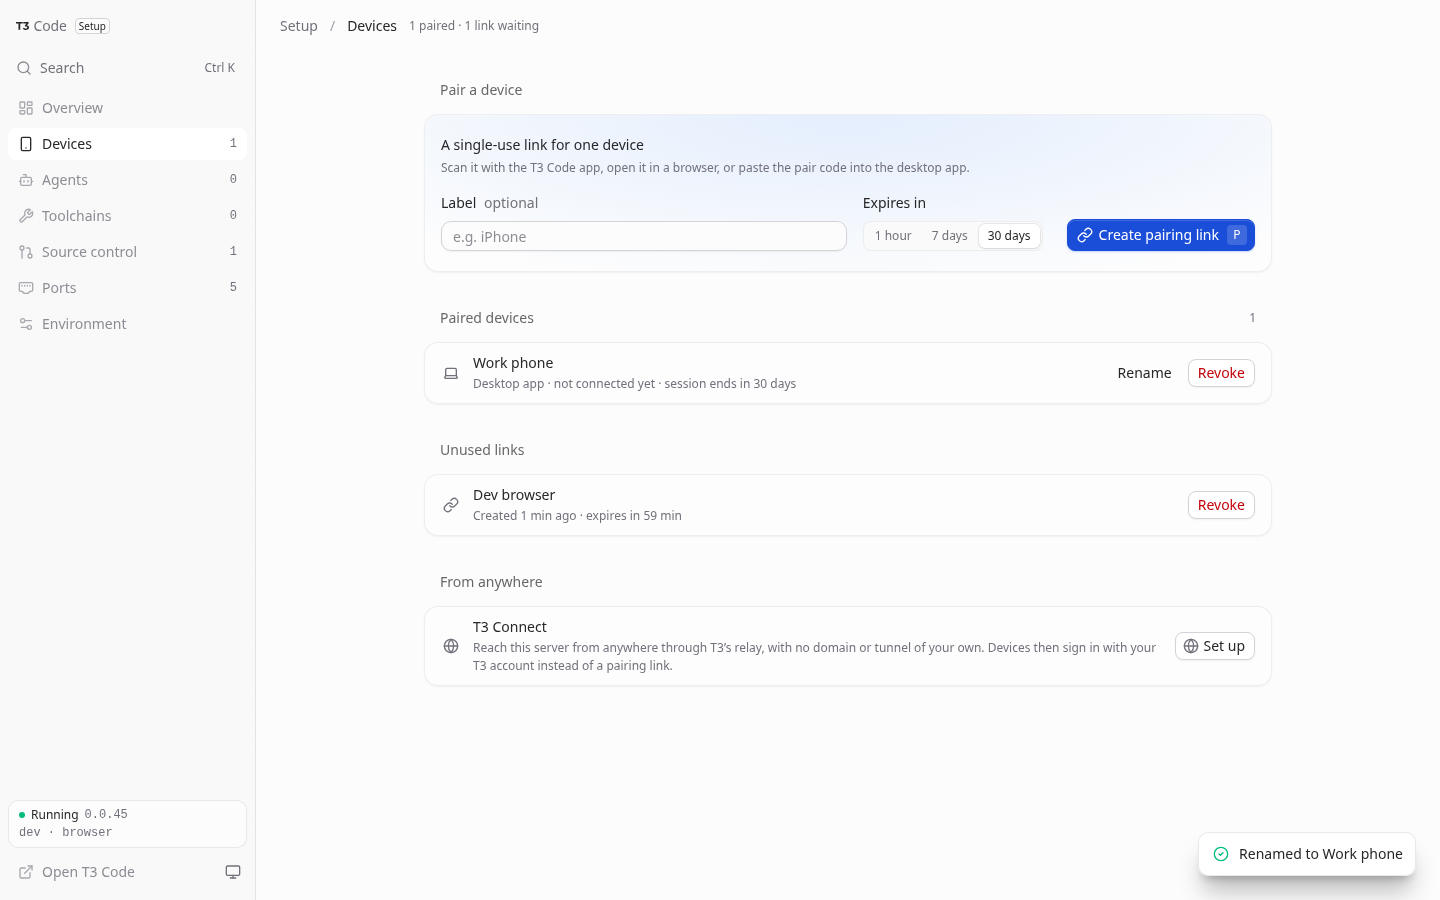
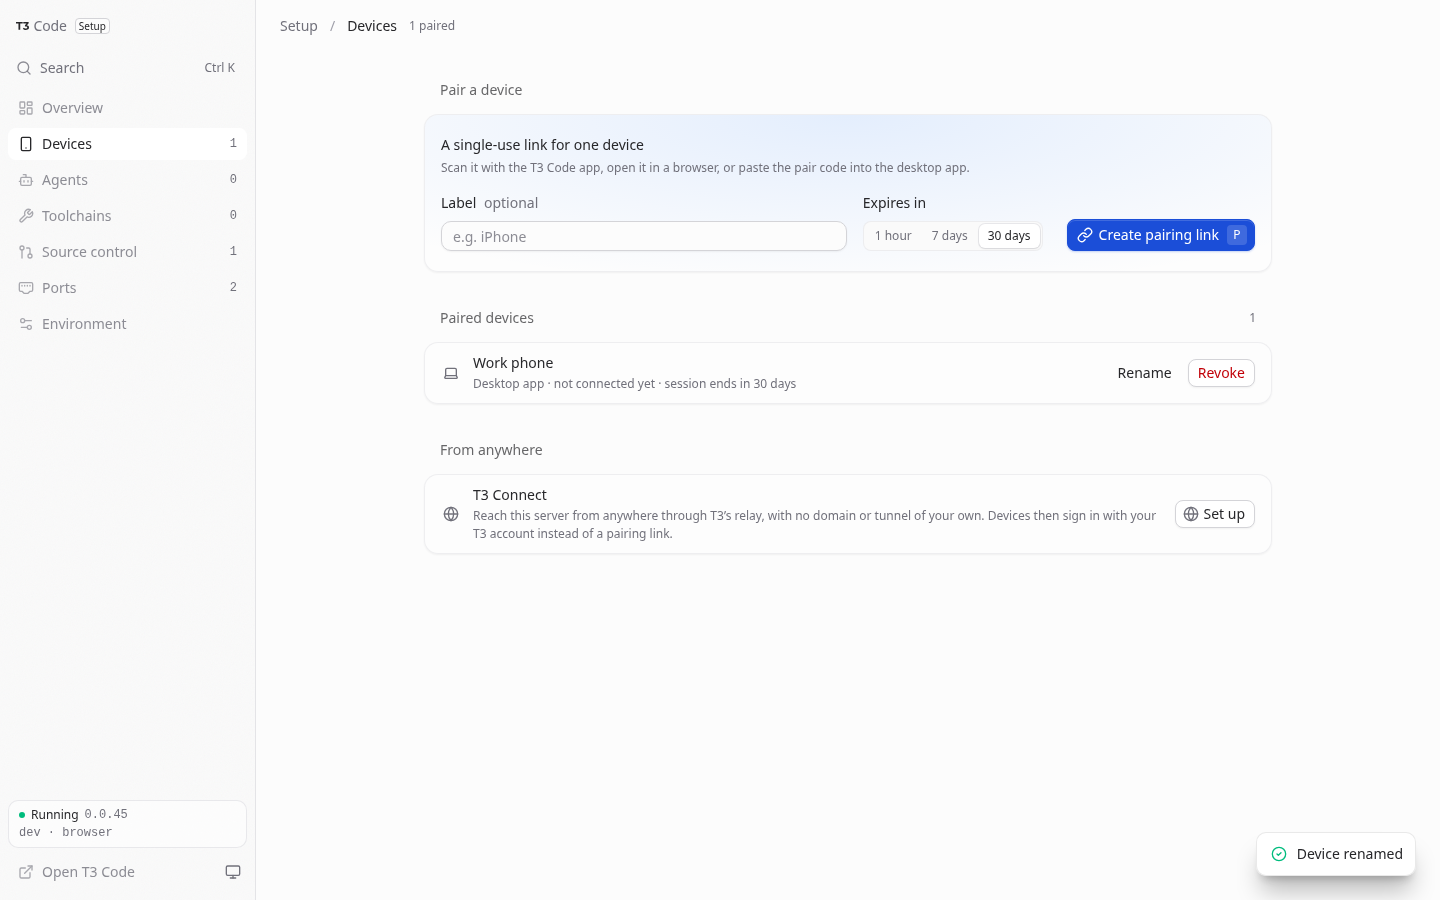
Refresh PR #20 review demos with the compact rename dialog

diff --git a/docs/pr-demos/20-device-labels/README.md b/docs/pr-demos/20-device-labels/README.md
@@ -1,7 +1,9 @@
 # PR #20: rename paired devices
 
-Captured from `fc4a5957a66f1be561c3da408992069f721a7250` with an isolated T3 Code 0.0.45 and the working-tree Setup server.
+Captured from `7b35cfaa1044937e05c001be01bed79182997922` with an isolated T3 Code 0.0.45 and the working-tree Setup server.
 
-Desktop: 1440 × 900. Phone: 390 × 844. Screenshots show the original name, the rename form, and the saved label. The phone recording also shows the label surviving a reload.
+Desktop: 1440 × 900. Phone: 390 × 844. Screenshots show the original name, the compact rename form, and the saved label. The phone recording also shows the label surviving a reload.
+
+Dark-theme and simulated failed-save captures cover additional form states.
 
 These files are PR review evidence; no production devices or accounts were used.
